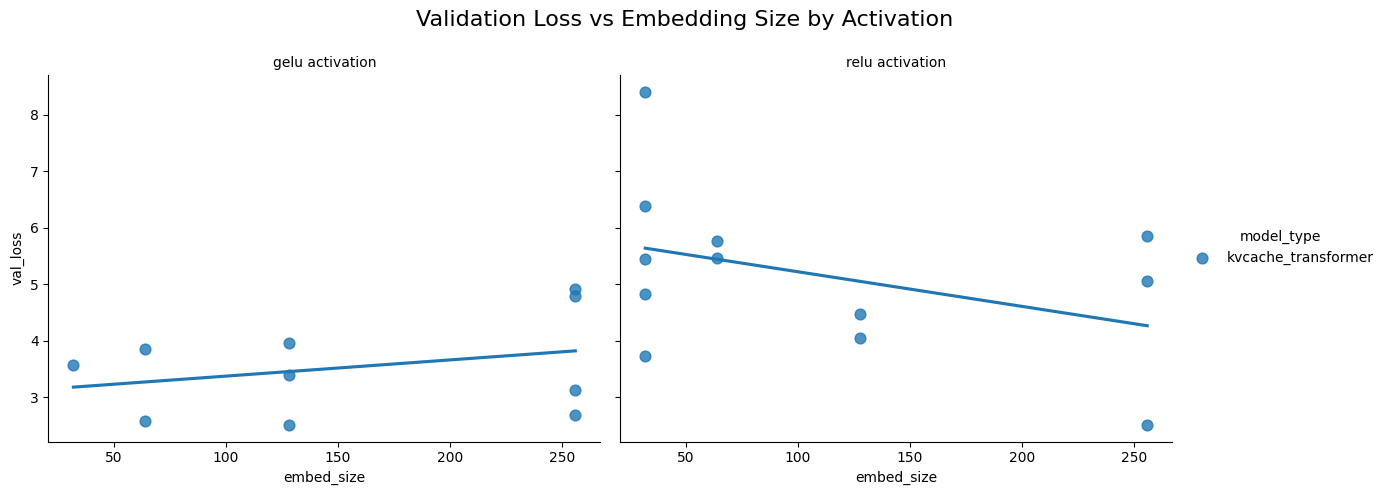
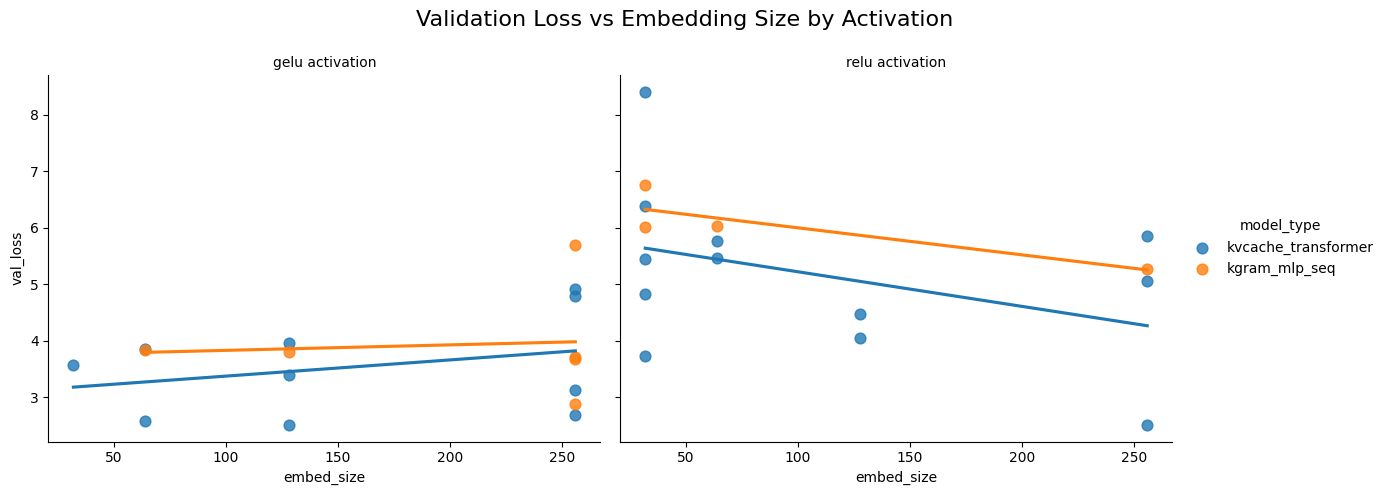
version v1.4 kgram fixed

diff --git a/main.py b/main.py
@@ -93,6 +93,7 @@ class MixedSequenceDataset(torch.utils.data.Dataset):
         self.tinystories_seqs = tinystories_seqs
         self.other_seqs = other_seqs
         self.p_tiny = p_tiny
+        self.max_seq_len = 5000  # or use a constructor argument if needed
 
         self.has_tinystories = (len(self.tinystories_seqs) > 0)
         self.has_other = (len(self.other_seqs) > 0)
@@ -187,6 +188,7 @@ class KGramMLPSeqModel(nn.Module):
         self.vocab_size = vocab_size
         self.embed_size = embed_size
         self.chunk_size = chunk_size
+        self.max_seq_len = 5000  # or use a constructor argument if needed
 
         self.embedding = nn.Embedding(vocab_size, embed_size)
         input_dim = (k) * (embed_size)
@@ -448,24 +450,26 @@ def generate_text(model, enc, init_text, max_new_tokens=20, device="cpu",
         context_tokens = enc.encode(init_text)
         annotation_list = []
 
-        is_transformer = hasattr(model, 'blocks') and hasattr(model, 'forward') and 'kv_cache' in model.forward.__code__.co_varnames
+        # Only transformer has kv_cache and max_seq_len
+        is_transformer = hasattr(model, 'blocks') and hasattr(model, 'forward')
+        has_kv_cache = 'kv_cache' in model.forward.__code__.co_varnames if is_transformer else False
+        max_seq_len = getattr(model, "max_seq_len", 128)  # fallback to 128 or args.block_size
         past_kv_cache = None
 
         for i in range(max_new_tokens):
             if is_transformer:
                 # Use only the last token if caching
                 # ✅ Always truncate to model.max_seq_len
-                if past_kv_cache:
+                if has_kv_cache:
                     input_tokens = context_tokens[-1:]
                 else:
-                    input_tokens = context_tokens[-model.max_seq_len:]
-
+                    input_tokens = context_tokens[-max_seq_len:]
                 # 🧱 Ensure model never sees more than max_seq_len tokens
                 assert len(input_tokens) <= model.max_seq_len, (
                     f"input_tokens ({len(input_tokens)}) > max_seq_len ({model.max_seq_len})"
                 )
                 seq_tensor = torch.tensor(input_tokens, dtype=torch.long, device=device).unsqueeze(1)
-                logits, past_kv_cache = model(seq_tensor, past_kv_cache)
+                logits = model(seq_tensor) if not has_kv_cache else model(seq_tensor, past_kv_cache)
             else:
                 # Non-transformer model gets full context every time
                 seq_tensor = torch.tensor(context_tokens, dtype=torch.long, device=device).unsqueeze(1)
@@ -838,9 +842,9 @@ def main():
     ).to(device)
 
     models = {
-        # "kgram_mlp_seq": kgram_model,
+        "kgram_mlp_seq": kgram_model,
         # "lstm_seq": lstm_model,
-        "kvcache_transformer": transformer,
+        # "kvcache_transformer": transformer,
     }
 
 
